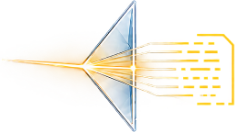
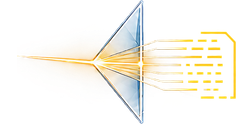
Header lockup uses the approved raster marks, keyed and canvas-matched
The nav and signup lockups were rendering <BrandMark>, the hand-authored
SVG redraw. They now render the owner's artwork via <BrandMarkRaster>, so
there is one mark in the chrome instead of two drawings of the same idea.
<BrandMark> stays for placements that run large enough to show its detail
and want token recolouring.

Two things had to be fixed in the rasters first, both found by measuring
rather than by eye:

The dark revision carried a baked black backdrop — 43% of its visible
pixels were near-opaque black, which painted a plate around the mark on
the nav's near-black ground. It is additive light on black, so luminance
is coverage: alpha := max(r,g,b), colour unpremultiplied back off black.
Keyed at full resolution, before the downscale, so edges resolve against
real pixels instead of an averaged halo. Near-black pixels: 43% -> 0%.

The two revisions have genuinely different content widths, so a tight crop
on each would have resized the header's layout box the moment a visitor's
OS flipped theme. Both are now centred on a shared 252x124 canvas;
measured in Chromium, the mark's box and the wordmark's x-offset are
byte-identical across themes at 1280px and at 390px.

BrandLockup drops idPrefix: a raster has no gradient ids to collide.

Claude-Session: https://claude.ai/code/session_01B7QegKfgCZ9GHnPwKsmUzi

diff --git a/src/app/_components/ui.tsx b/src/app/_components/ui.tsx
@@ -310,12 +310,10 @@ export function BrandLockup({
   size = 30,
   tagline = true,
   stack = false,
-  idPrefix = "lk",
 }: {
   size?: number;
   tagline?: boolean;
   stack?: boolean;
-  idPrefix?: string;
 }) {
   // Size drives a CSS custom property rather than fixed attributes, so the
   // whole lockup scales from one number — and it is a clamp(), so a narrow
@@ -326,7 +324,11 @@ export function BrandLockup({
   } as React.CSSProperties;
   return (
     <span className={`brand-lockup${stack ? " brand-lockup-stack" : ""}`} style={style}>
-      <BrandMark size={size} idPrefix={idPrefix} />
+      {/* The approved artwork, not a redraw of it. No idPrefix needed: a
+          raster has no gradient ids to collide when the lockup appears twice
+          on a page. <BrandMark> stays for placements that run large enough to
+          show the SVG's detail and want token recolouring. */}
+      <BrandMarkRaster />
       <span>
         <span className="brand-wordmark">Brandeis</span>
         {tagline && <span className="brand-tagline">{branding.tagline}</span>}

diff --git a/src/app/globals.css b/src/app/globals.css
@@ -1593,9 +1593,18 @@ label.lbl {
   gap: 0.38em;
   font-size: var(--lockup);
 }
+/* <picture> is inline by default, so it sits on the text baseline and drags
+   a descender's worth of whitespace into the flex row. Take it out of the
+   inline formatting context entirely. */
+.brand-raster {
+  display: block;
+  line-height: 0;
+}
 /* One number sizes the whole lockup: the mark's height and the wordmark
    scale together off --lockup, so the header can grow without anything
-   drifting out of proportion. */
+   drifting out of proportion. Both revisions are cropped to the same canvas
+   (252x124), so the box does not resize when <picture> swaps them at the
+   theme boundary. */
 .brand-lockup > svg,
 .brand-lockup > .brand-raster img {
   height: var(--lockup);

diff --git a/src/app/signup/page.tsx b/src/app/signup/page.tsx
@@ -27,7 +27,7 @@ export default function SignupPage() {
       <div className="nav" style={{ position: "static" }}>
         <div className="wrap nav-inner">
           <Link href="/" className="brand" aria-label={branding.productName}>
-            <BrandLockup size={36} idPrefix="su" />
+            <BrandLockup size={36} />
           </Link>
           <nav className="nav-links" aria-label="Primary">
             <Link href="/riverton" className="nav-link">

diff --git a/src/app/page.tsx b/src/app/page.tsx
@@ -92,7 +92,7 @@ export default function MarketingHome() {
       <div className="nav mk-topnav">
         <div className="wrap nav-inner">
           <Link href="/" className="brand" aria-label={branding.productName}>
-            <BrandLockup size={36} idPrefix="nav" />
+            <BrandLockup size={36} />
           </Link>
           <nav className="nav-links" aria-label="Primary">
             <Link href="/riverton" className="nav-link">

diff --git a/public/brand/README.md b/public/brand/README.md
@@ -1,6 +1,8 @@
 # Brand assets
 
-Two revisions of the owner's approved full lockup, one per theme:
+Four files, two jobs.
+
+## Full lockups — hero use
 
 - `brandeis-lockup-dark.png` (1300×445) — white wordmark, gold tagline.
 - `brandeis-lockup-light.png` (1400×296) — navy wordmark, gold tagline.
@@ -10,23 +12,44 @@ Both were supplied as `.svg` files that are **rasters in disguise**: a single
 `<image>` element holding a base64 PNG, zero `<path>` data. They do not scale
 and cannot be recoloured, so they are used as images, not as the mark.
 
-**Use them large, and match the revision to the ground.** Two things were
-measured:
+**Use them large, and match the revision to the ground.** At 26px (nav
+height) the outlined letterforms and the record's data grid collapse into an
+illegible smear. These are hero lockups, ~120px and up.
 
-- At 26px (nav height) the outlined letterforms and the record's data grid
-  collapse into an illegible smear. These are hero lockups, ~120px and up.
-- Each render has its glow baked into the pixels. The dark rev vanishes on
-  the brand ground and reads as a dirty grey plate on paper; the light rev's
-  navy wordmark inverts the problem. `<picture>` + `prefers-color-scheme`
-  picks the right one.
+## Marks — header use
 
-Everything smaller uses `<BrandMark>` / `<BrandLockup>` in
-`src/app/_components/ui.tsx`: hand-authored SVG on brand tokens, legible at
-favicon size, recolouring per theme. Two kinds of asset, two jobs — do not
-swap one for the other.
+- `mark-dark.png`, `mark-light.png` — the prism cropped out of the lockups
+  above, downscaled to 124px of content on a shared **252×124** canvas.
 
-To replace these with a true vector, export with text converted to outlines
-and shapes as paths (Illustrator: Save As → SVG, *Preserve Illustrator
-Editing* off; Figma: Export → SVG with "Outline text" on). A correct export
-contains `<path>` elements. A file containing `<image ... base64>` is a
-bitmap in disguise, like both of these.
+`<BrandMarkRaster>` swaps them with `<picture>` + `prefers-color-scheme`, and
+`<BrandLockup>` sets the type beside them. Each render has its glow baked
+into the pixels: the dark rev vanishes on the brand ground and reads as a
+dirty grey plate on paper, and the light rev's navy inverts that problem.
+
+To regenerate them from a new pair of renders, two steps are load-bearing:
+
+**The dark revision is keyed off black.** It was rendered as glow on solid
+black and the black survived the crop — 43% of every pixel the file drew was
+near-opaque black, which painted a visible plate around the mark on the nav's
+near-black ground. The artwork is additive light, so luminance is coverage:
+`alpha := max(r,g,b)`, colour unpremultiplied back off black. Key at full
+resolution, before the downscale, or the edges resample against a halo.
+
+**The canvas is shared.** The two revisions have genuinely different content
+widths (the light rev draws more of the incoming beam), so the narrower is
+centred with transparent padding. Crop them tight instead and the header's
+layout box changes width the moment a visitor's OS flips theme. If you
+regenerate one, regenerate both, onto the same canvas.
+
+## Which asset where
+
+Anything that needs to recolour from tokens, run at favicon size, or animate
+uses `<BrandMark>` in `src/app/_components/ui.tsx` — hand-authored SVG on
+brand tokens. Header chrome uses the raster, because it is the approved
+artwork and one mark everywhere beats two drawings of the same idea.
+
+To replace the rasters with a true vector, export with text converted to
+outlines and shapes as paths (Illustrator: Save As → SVG, *Preserve
+Illustrator Editing* off; Figma: Export → SVG with "Outline text" on). A
+correct export contains `<path>` elements. A file containing
+`<image ... base64>` is a bitmap in disguise, like all of these.
